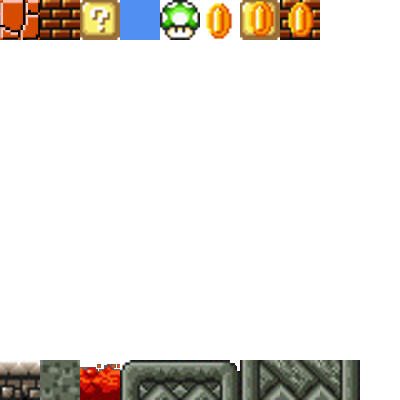
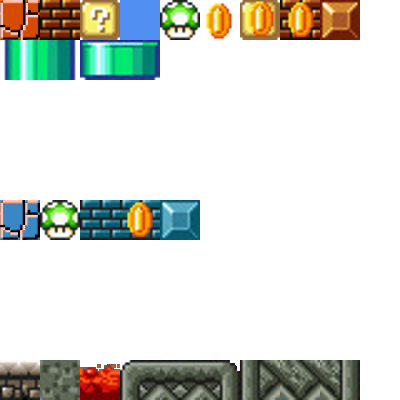
se añanden sprites de todos los mapas

Changed region(s): [[0.0, 0.48, 0.51, 0.6], [0.0, 0.09, 0.42, 0.21], [0.78, 0.0, 0.9, 0.12]]

diff --git a/Jugadores/Mapa/ControllerMapa.py b/Jugadores/Mapa/ControllerMapa.py
@@ -99,6 +99,36 @@ class MakeMapa:
                     #self.Bonus.add(m)
                     self.general.add(m)
 
+                if self.mapa[i][j] == 9 :
+                    m = suelo(self.sabana[8][0])
+                    m.setpos(j*40 , i*40)
+                    self.suelos.add(m)
+                    self.general.add(m)
+
+                if self.mapa[i][j] == 11 :
+                    m = suelo(self.sabana[0][1])
+                    m.setpos(j*40 , i*40)
+                    self.suelos.add(m)
+                    self.general.add(m)
+
+                if self.mapa[i][j] == 12 :
+                    m = suelo(self.sabana[1][1])
+                    m.setpos(j*40 , i*40)
+                    self.suelos.add(m)
+                    self.general.add(m)
+
+                if self.mapa[i][j] == 13 :
+                    m = suelo(self.sabana[2][1])
+                    m.setpos(j*40 , i*40)
+                    self.suelos.add(m)
+                    self.general.add(m)
+
+                if self.mapa[i][j] == 14:
+                    m = suelo(self.sabana[3][1])
+                    m.setpos(j*40 , i*40)
+                    self.suelos.add(m)
+                    self.general.add(m)
+
                 #TERCER NIVEL
                 #Suelo
                 if self.mapa[i][j] == 91:
